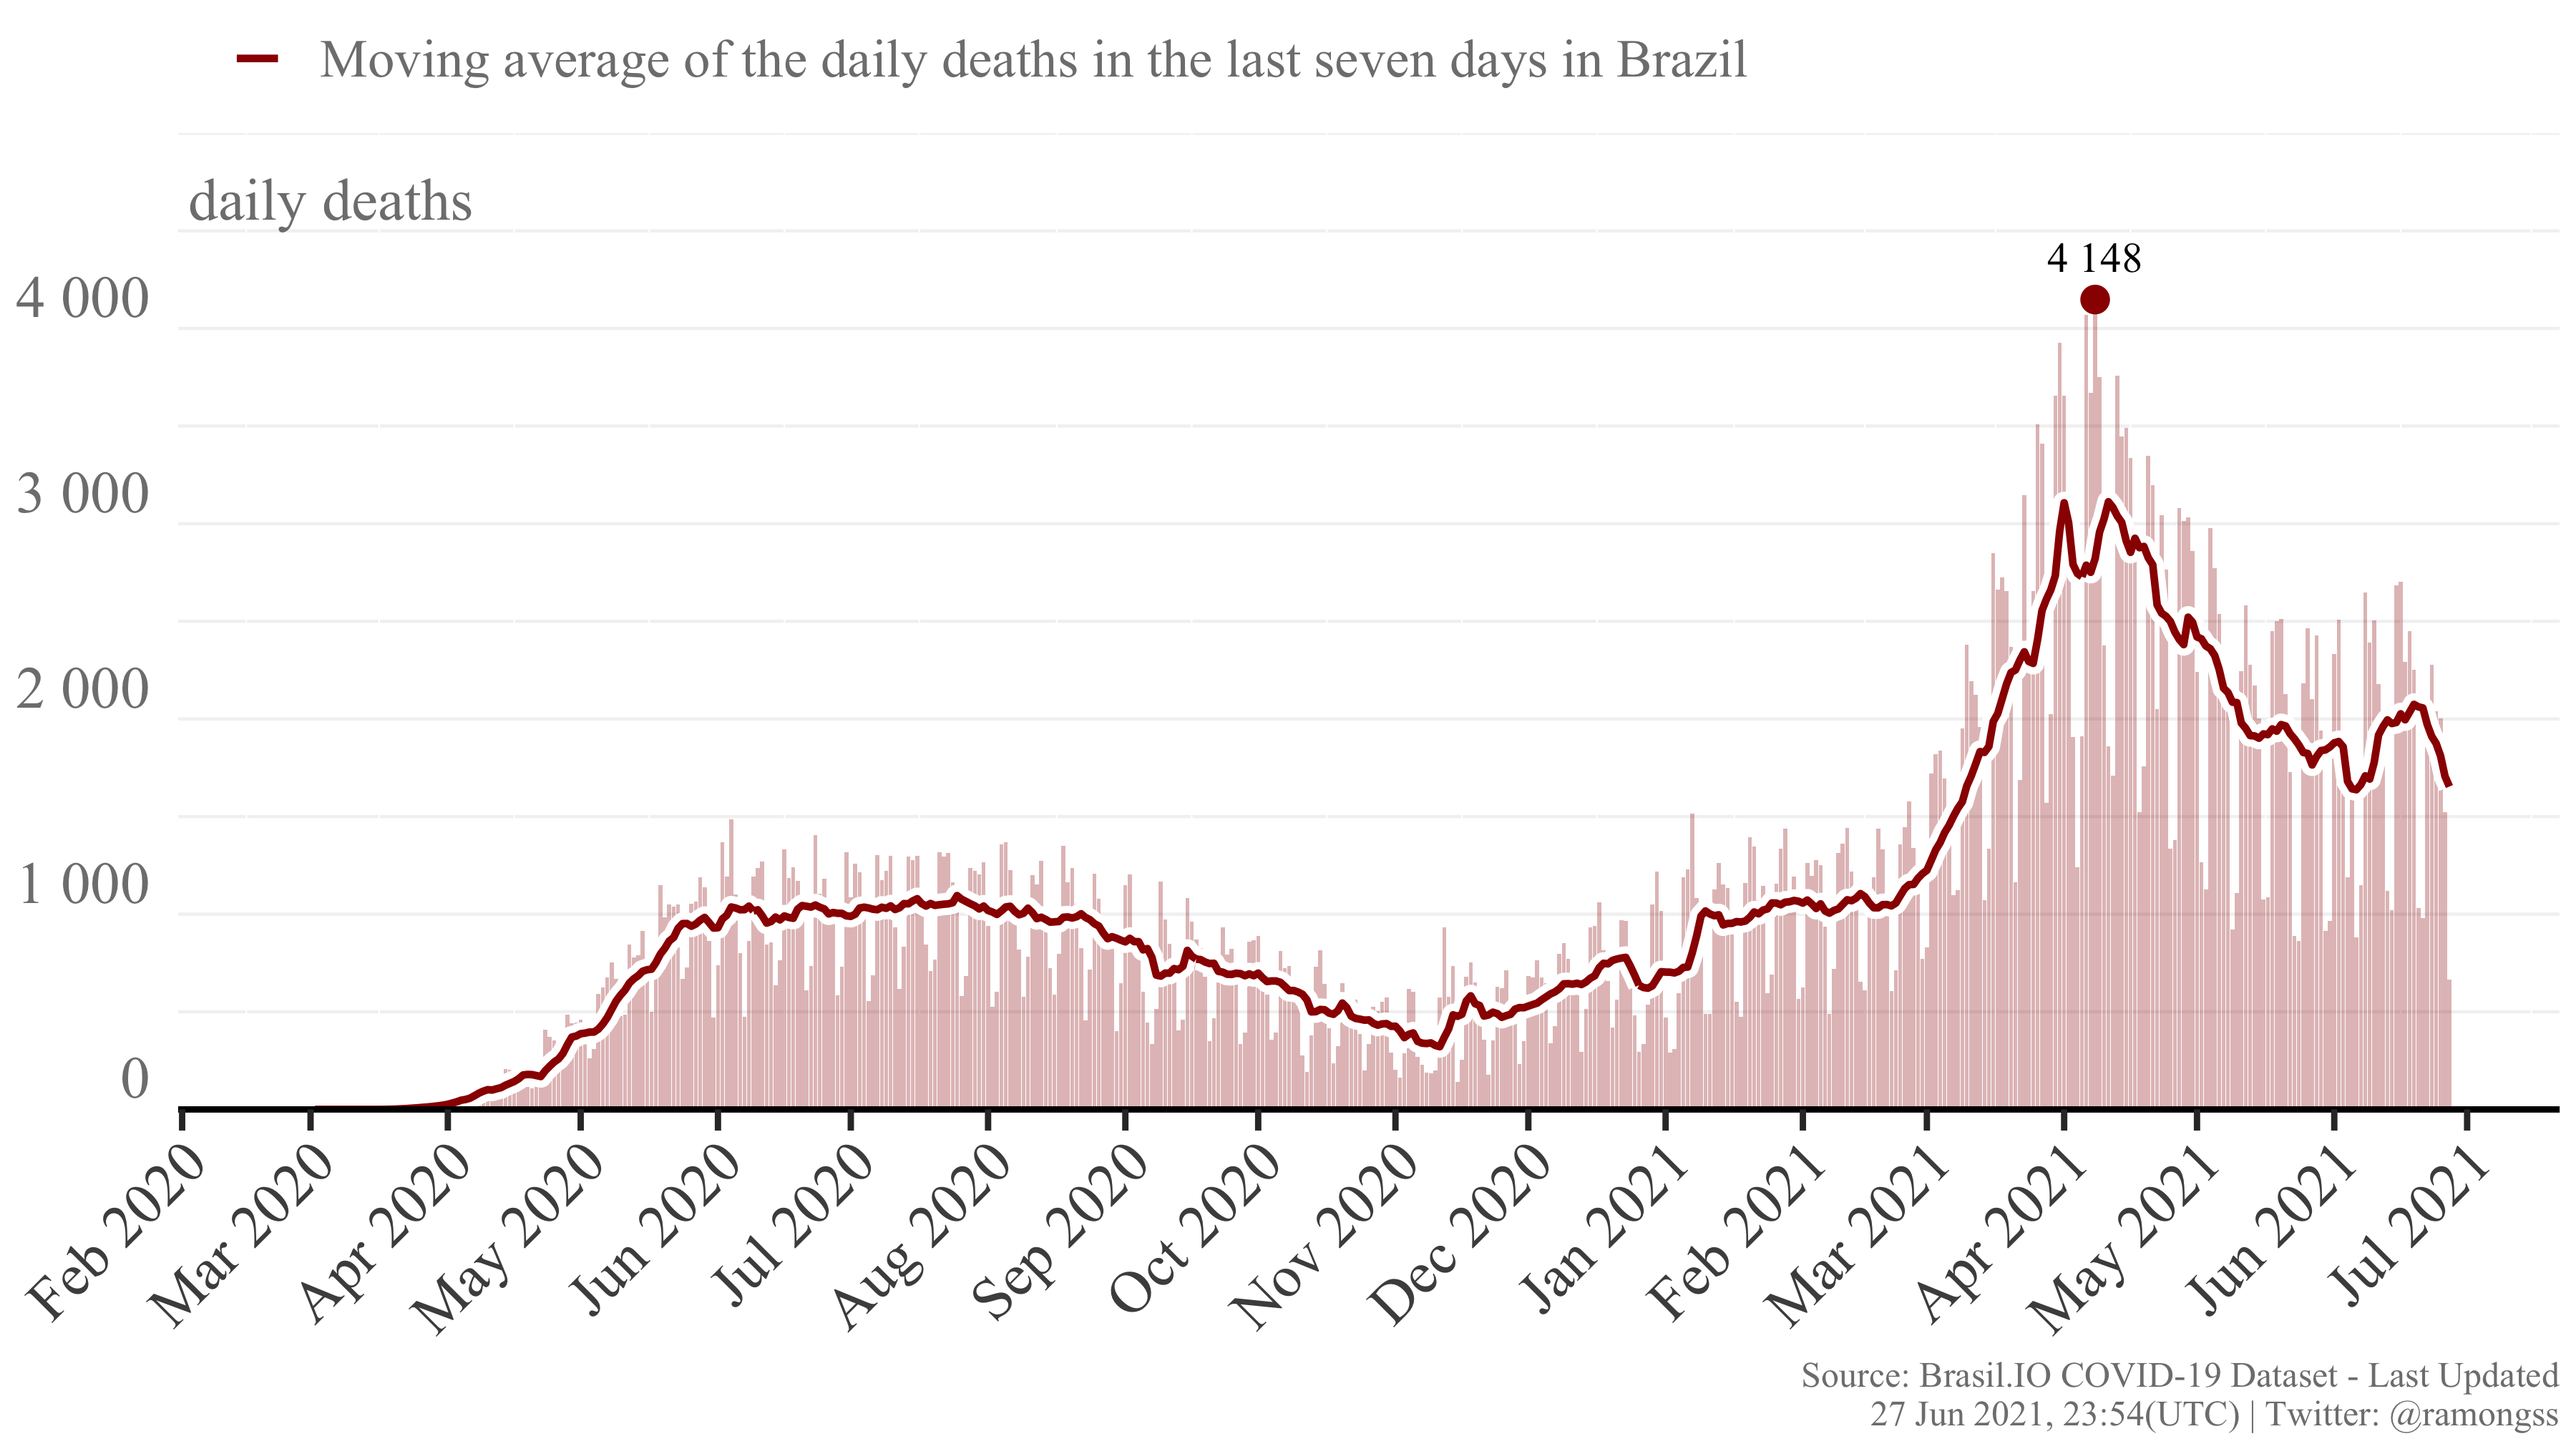
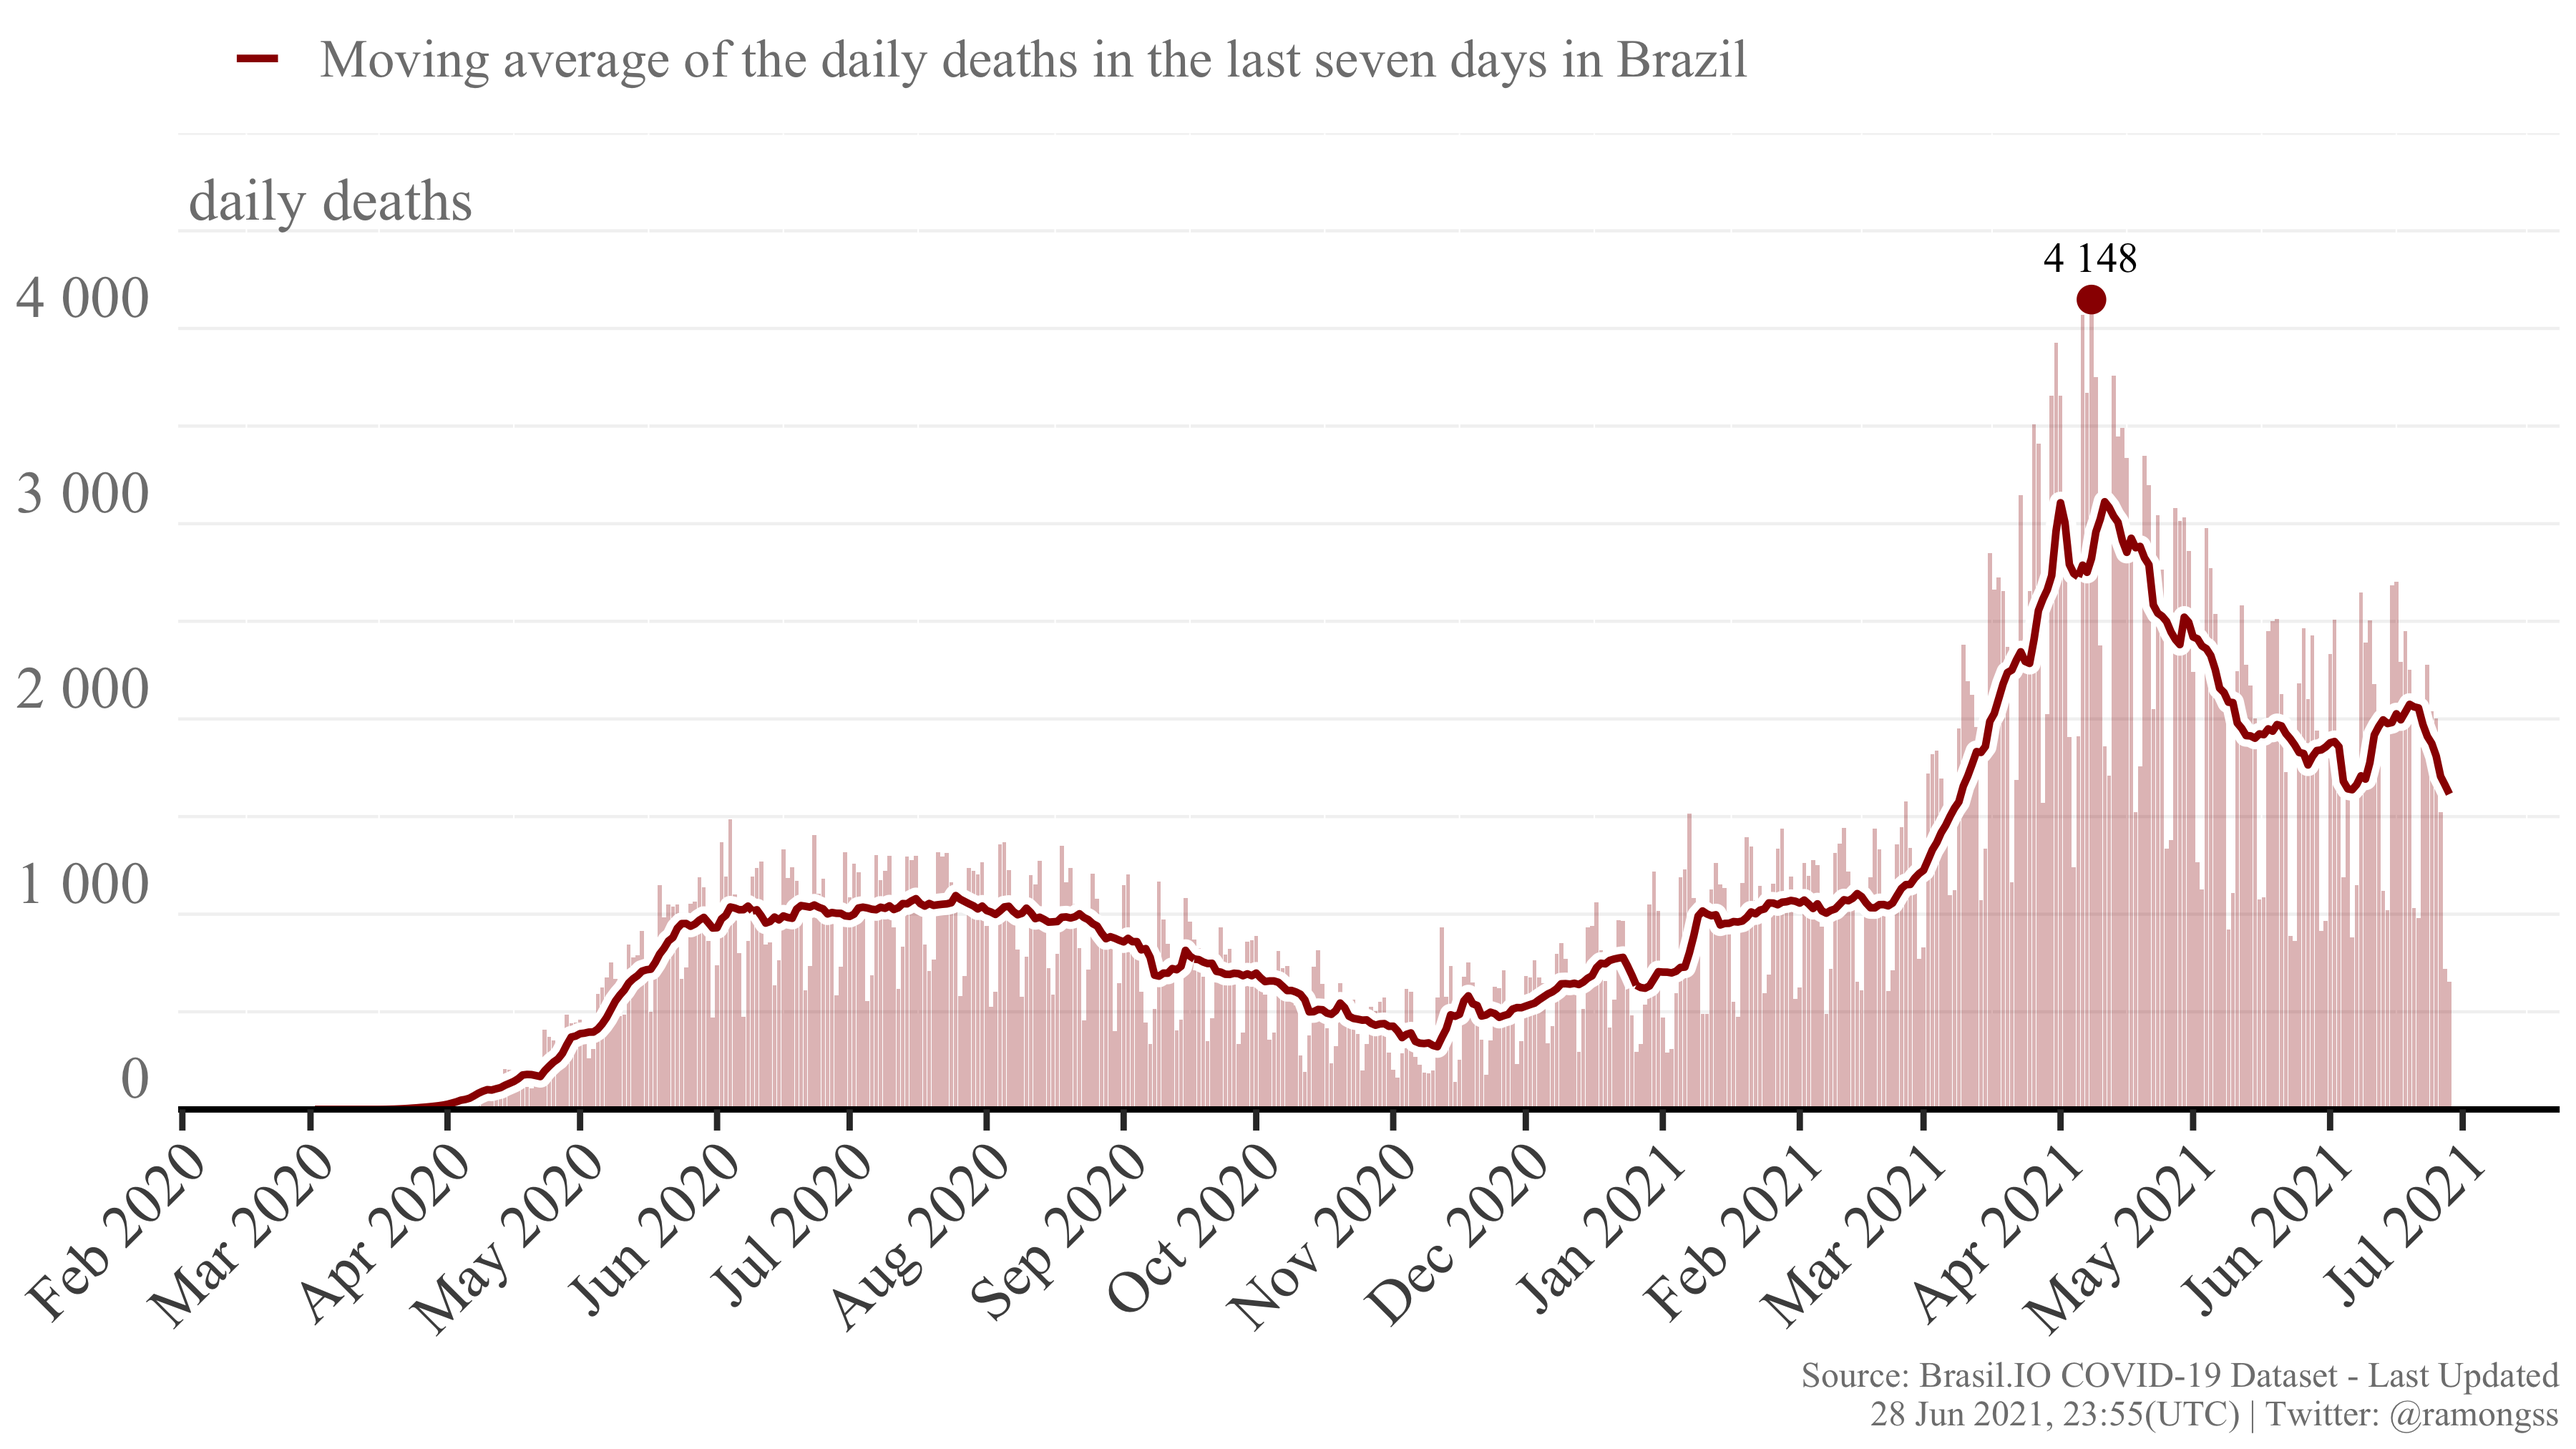
Re-build README.Rmd

diff --git a/README.md b/README.md
@@ -27,8 +27,8 @@ download_brasilio_table <- function(dataset = "covid19", table_name){
 
 ## COVID-19 Confirmed cases
 
-Currently, Brazil has a total of **18,423,696** confirmed cases at **27
-Jun, 2021**, with **30,523** new confirmed cases. The daily maximum
+Currently, Brazil has a total of **18,455,036** confirmed cases at **28
+Jun, 2021**, with **29,898** new confirmed cases. The daily maximum
 incidence was **124,246** confirmed cases at **22 Jun, 2021**. Here
 follows the Figure showing the confirmed case incidence as the bars, and
 the line as the moving average of the last 7 days.
@@ -37,8 +37,8 @@ the line as the moving average of the last 7 days.
 
 ## COVID-19 Deaths
 
-Currently, Brazil has a total of **513,715** deaths at **27 Jun, 2021**,
-with **664** new deaths. The daily maximum deaths incidence was
+Currently, Brazil has a total of **514,427** deaths at **28 Jun, 2021**,
+with **655** new deaths. The daily maximum deaths incidence was
 **4,148** deaths at **08 Apr, 2021**. Here follows the Figure showing
 the deaths incidence as the bars, and the line as the moving average of
 the last 7 days.
@@ -49,4 +49,4 @@ the last 7 days.
 
 This page is daily updated automatically using Github Actions.
 
-*Last update: 27 Jun 2021, 23:54 (UTC).*
+*Last update: 28 Jun 2021, 23:55 (UTC).*
